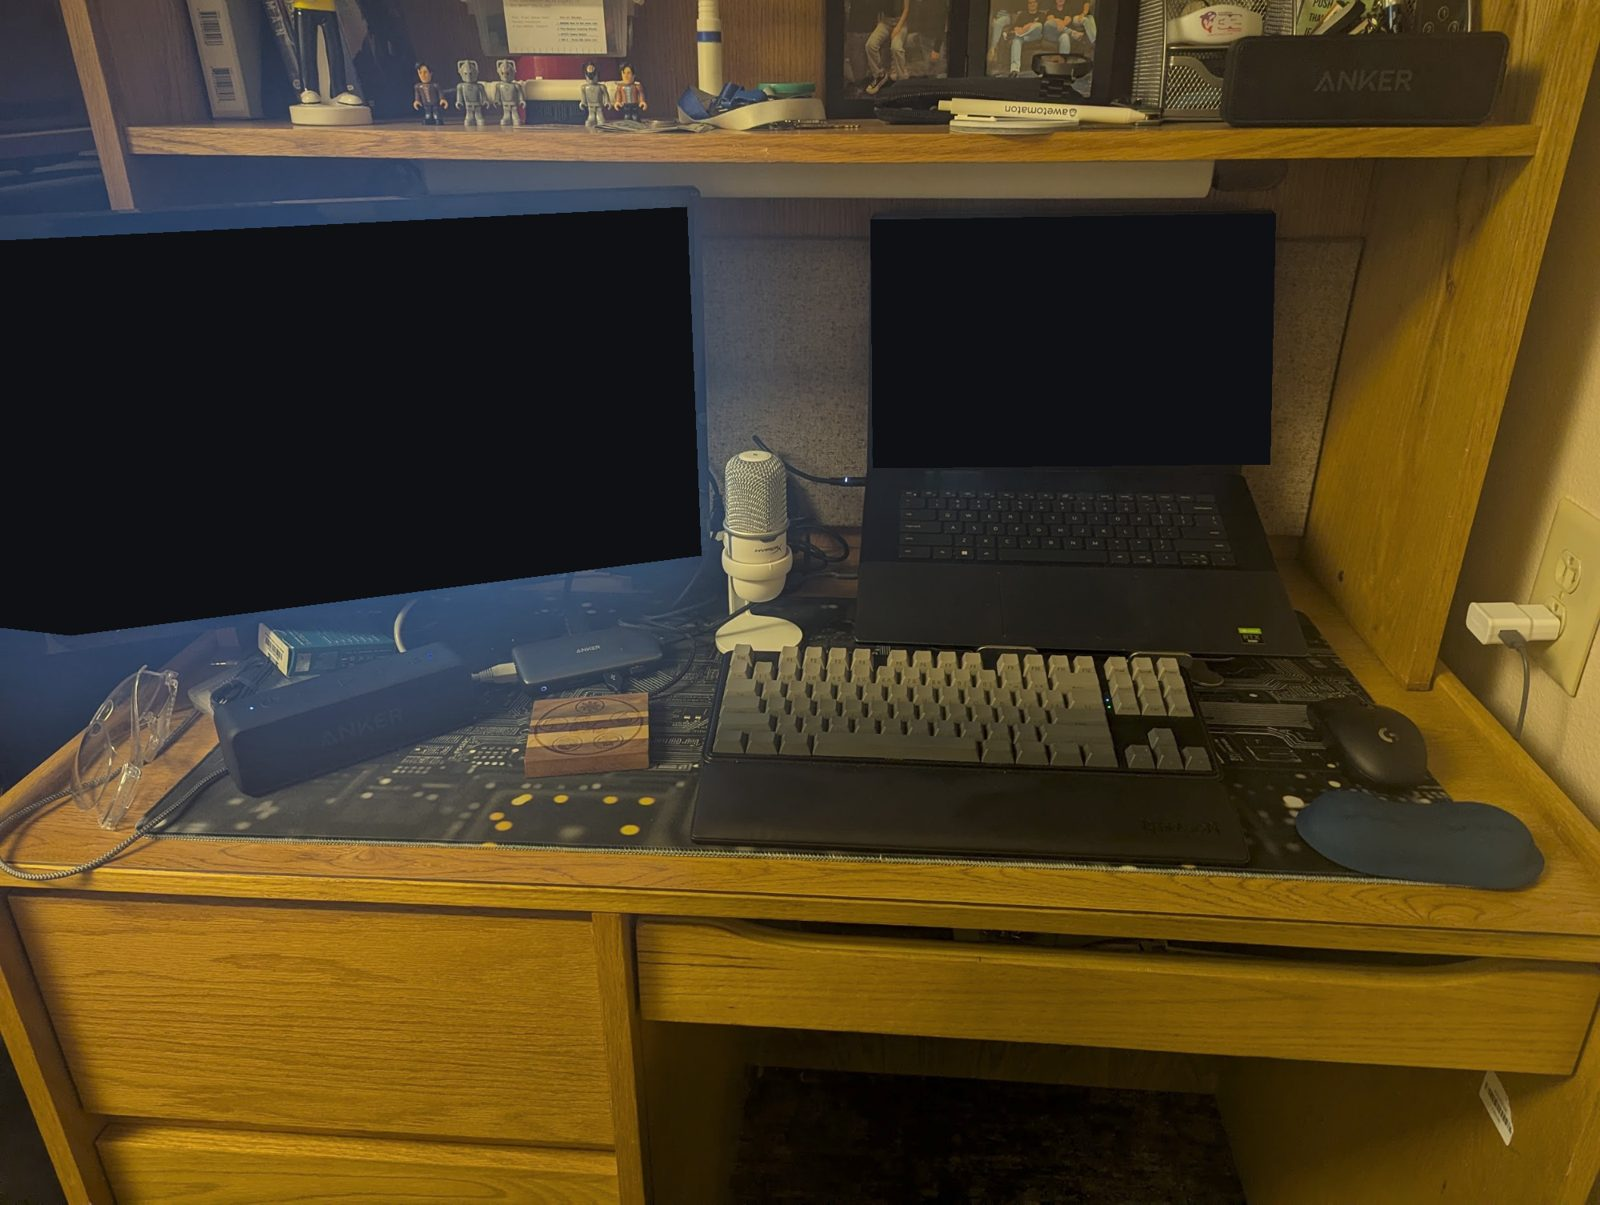
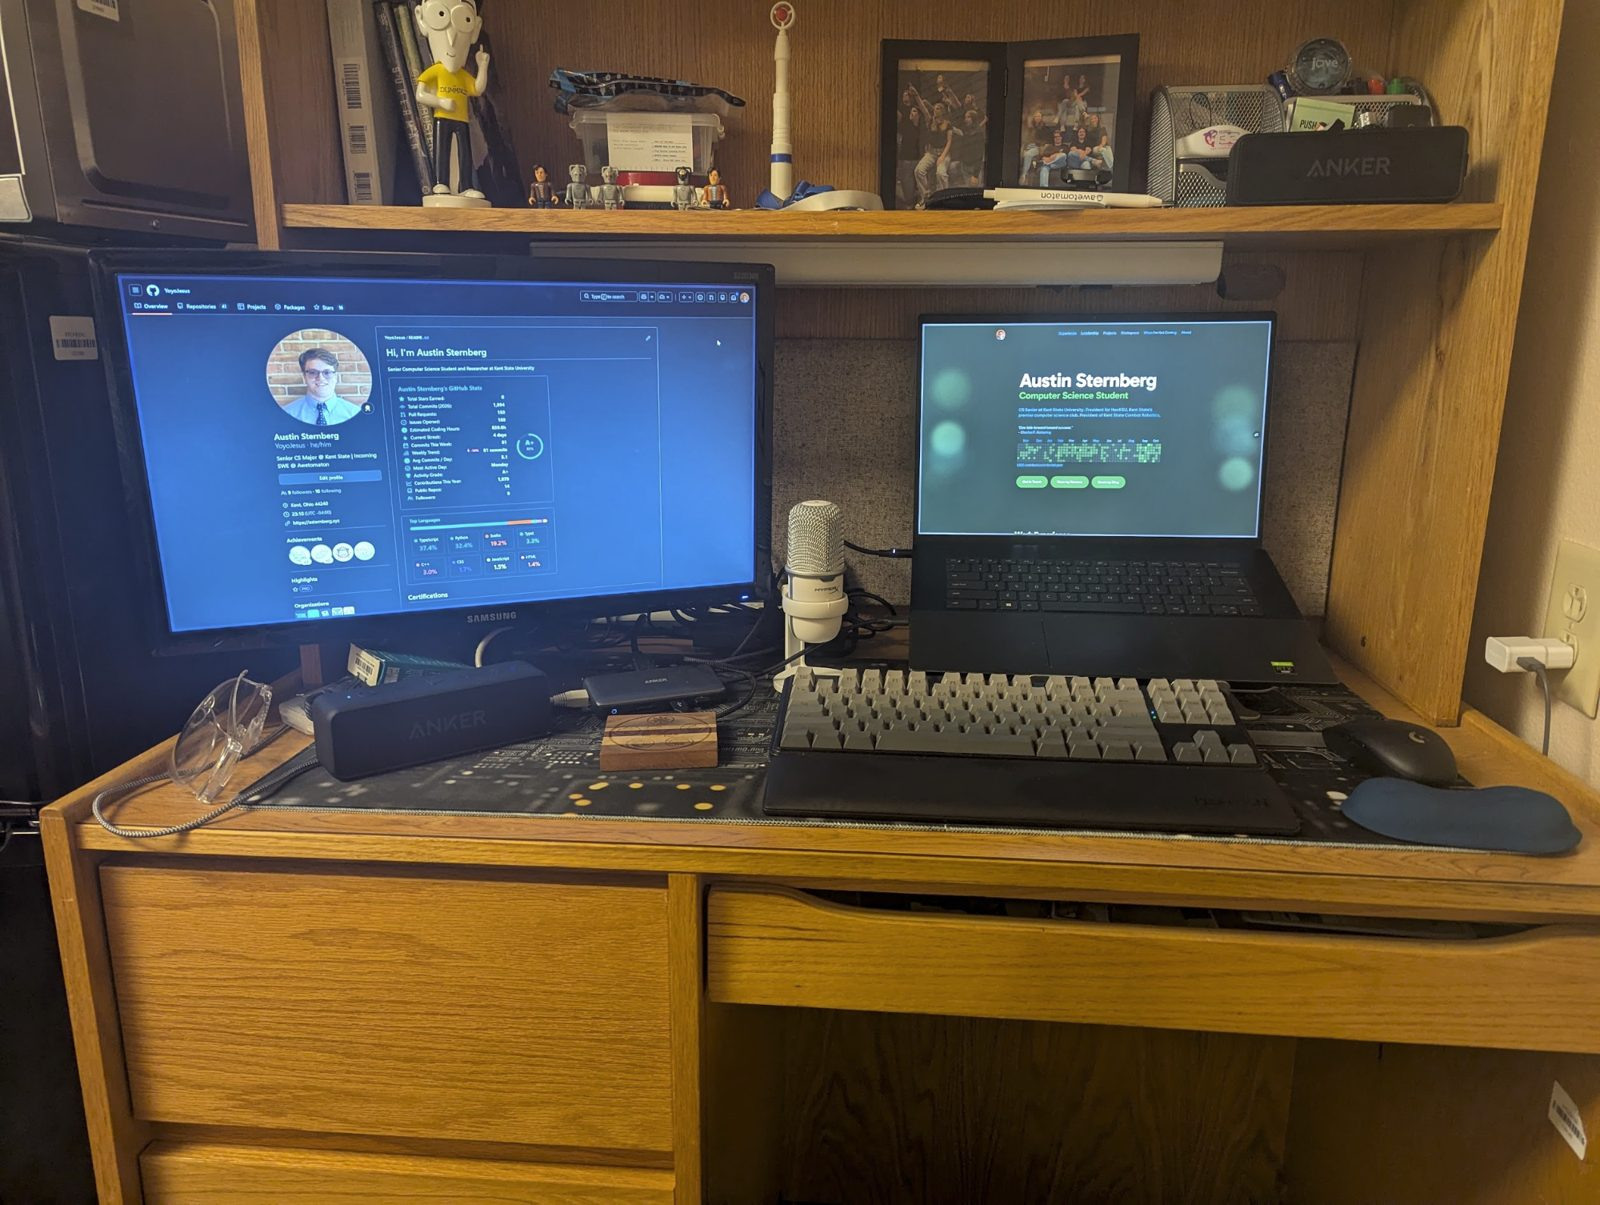
feat: new desk photo, updated tools, and everyday apps group

diff --git a/src/lib/config.ts b/src/lib/config.ts
@@ -535,23 +535,25 @@ export const SITE_CONTENT: SiteContent = {
     imageAlt: "My desk: a laptop and Samsung monitor with a mechanical keyboard, mic, and mouse on a circuit-board desk mat",
     // `pin` is percent from the photo's top-left and places a numbered marker.
     gear: [
-      { name: "Laptop", detail: "TODO: model, RTX GPU", pin: { x: 66, y: 44 } },
-      { name: "Monitor", detail: "Samsung, TODO: size", pin: { x: 22, y: 33 } },
-      { name: "Keyboard", detail: "TODO: model, Redragon wrist rest", pin: { x: 59, y: 58 } },
-      { name: "Mouse", detail: "Logitech G, TODO: model", pin: { x: 86, y: 61 } },
-      { name: "Microphone", detail: "HyperX, TODO: model", pin: { x: 47, y: 42 } },
-      { name: "Speaker", detail: "Anker, TODO: model", pin: { x: 21, y: 60 } },
-      { name: "USB-C hub", detail: "Anker, TODO: model", pin: { x: 37, y: 54 } },
-      { name: "Desk mat", detail: "Circuit-board print", pin: { x: 29, y: 68 } },
+      { name: "Laptop", detail: "TODO: model, RTX GPU", pin: { x: 69, y: 50 } },
+      { name: "Monitor", detail: "Samsung, TODO: size", pin: { x: 27, y: 37 } },
+      { name: "Keyboard", detail: "TODO: model, Redragon wrist rest", pin: { x: 62, y: 60 } },
+      { name: "Mouse", detail: "Logitech G, TODO: model", pin: { x: 87, y: 62 } },
+      { name: "Microphone", detail: "HyperX, TODO: model", pin: { x: 51, y: 46 } },
+      { name: "Speaker", detail: "Anker, TODO: model", pin: { x: 27, y: 60 } },
+      { name: "USB-C hub", detail: "Anker, TODO: model", pin: { x: 41, y: 57 } },
+      { name: "Desk mat", detail: "Circuit-board print", pin: { x: 33, y: 66 } },
     ],
     groups: [
       {
         title: "Editor & Tools",
         items: [
           { name: "VS Code", icon: "devicon-vscode-plain colored", href: "https://code.visualstudio.com/" },
-          { name: "Claude Code", icon: "https://cdn.jsdelivr.net/gh/homarr-labs/dashboard-icons/svg/claude-ai.svg", href: "https://claude.com/claude-code" },
+          { name: "T3 Code", icon: "https://t3.codes/favicon.ico", href: "https://t3.codes/" },
           { name: "Git", icon: "devicon-git-plain colored", href: "https://git-scm.com/" },
-          { name: "Prettier", icon: "https://prettier.io/icon.png", href: "https://prettier.io/" },
+          { name: "GitHub Desktop", icon: "https://cdn.jsdelivr.net/gh/homarr-labs/dashboard-icons/svg/github-light.svg", href: "https://desktop.github.com/" },
+          { name: "Docker Desktop", icon: "devicon-docker-plain colored", href: "https://www.docker.com/products/docker-desktop/" },
+          { name: "Podman", icon: "https://cdn.jsdelivr.net/gh/homarr-labs/dashboard-icons/svg/podman.svg", href: "https://podman.io/" },
         ],
       },
       {
@@ -566,13 +568,22 @@ export const SITE_CONTENT: SiteContent = {
           { name: "Typst", icon: "https://typst.app/favicon.ico", href: "https://typst.app/", trying: true },
         ],
       },
+      {
+        title: "Everyday",
+        items: [
+          { name: "Zen Browser", icon: "https://cdn.jsdelivr.net/gh/homarr-labs/dashboard-icons/svg/zen-browser.svg", href: "https://zen-browser.app/" },
+          { name: "Spotify", icon: "https://cdn.jsdelivr.net/gh/homarr-labs/dashboard-icons/svg/spotify.svg", href: "https://open.spotify.com/" },
+          { name: "Obsidian", icon: "https://cdn.jsdelivr.net/gh/homarr-labs/dashboard-icons/svg/obsidian.svg", href: "https://obsidian.md/" },
+          { name: "Discord", icon: "https://cdn.jsdelivr.net/gh/homarr-labs/dashboard-icons/svg/discord.svg", href: "https://discord.com/" },
+        ],
+      },
     ],
   },
   hackerWorkspace: {
     image: "/workspace.jpg",
     imageAlt: "My hacking setup",
     gear: [
-      { name: "Laptop", detail: "TODO: model", pin: { x: 66, y: 44 } },
+      { name: "Laptop", detail: "TODO: model", pin: { x: 69, y: 50 } },
       { name: "Attack box", detail: "TODO: Kali / Parrot VM" },
     ],
     groups: [
@@ -581,7 +592,15 @@ export const SITE_CONTENT: SiteContent = {
         items: [
           { name: "nmap", icon: "https://nmap.org/favicon.ico", href: "https://nmap.org/" },
           { name: "Wireshark", icon: "devicon-wireshark-plain colored", href: "https://www.wireshark.org/" },
+          { name: "Angry IP Scanner", icon: "https://angryip.org/favicon.ico", href: "https://angryip.org/" },
           { name: "Scapy", icon: "devicon-python-plain colored", href: "https://scapy.net/" },
+        ],
+      },
+      {
+        title: "Web & Cracking",
+        items: [
+          { name: "Burp Suite", icon: "https://cdn.jsdelivr.net/gh/homarr-labs/dashboard-icons/svg/burpsuite.svg", href: "https://portswigger.net/burp" },
+          { name: "Hashcat", icon: "https://hashcat.net/favicon.ico", href: "https://hashcat.net/hashcat/" },
         ],
       },
       {
@@ -590,6 +609,13 @@ export const SITE_CONTENT: SiteContent = {
           { name: "pwntools", icon: "devicon-python-plain colored", href: "https://github.com/Gallopsled/pwntools" },
           { name: "Python", icon: "devicon-python-plain colored", href: "https://www.python.org/" },
           { name: "Bash", icon: "devicon-bash-plain", href: "https://www.gnu.org/software/bash/" },
+        ],
+      },
+      {
+        title: "Ops & Privacy",
+        items: [
+          { name: "Proton VPN", icon: "https://cdn.jsdelivr.net/gh/homarr-labs/dashboard-icons/svg/proton-vpn.svg", href: "https://protonvpn.com/" },
+          { name: "Docker", icon: "devicon-docker-plain colored", href: "https://www.docker.com/" },
         ],
       },
     ],
